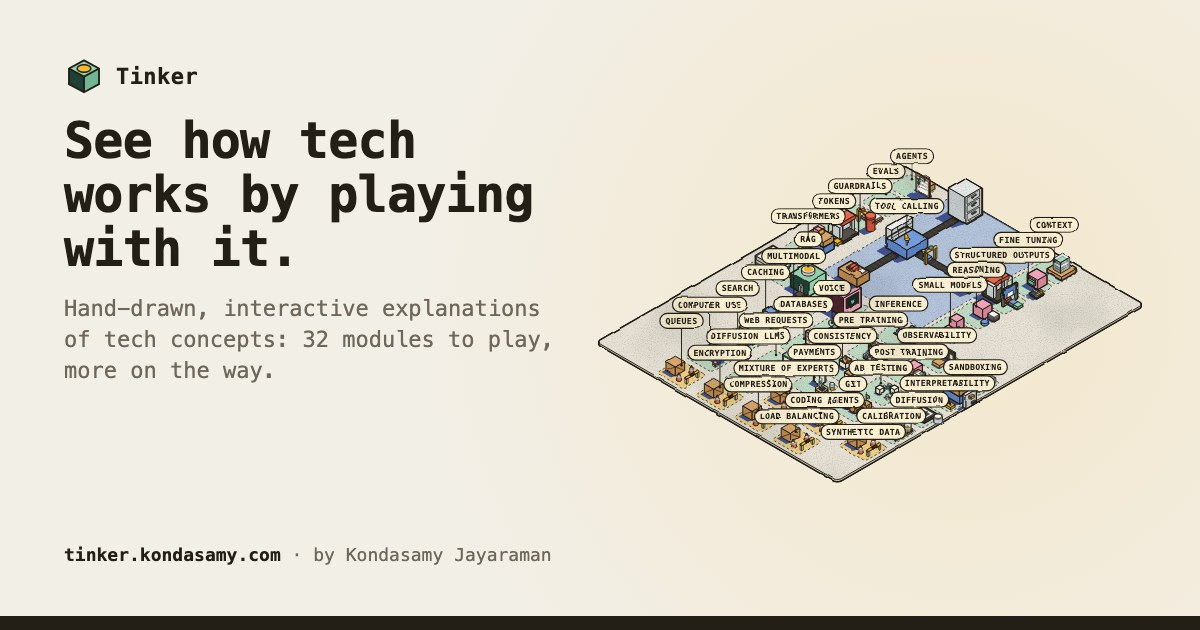
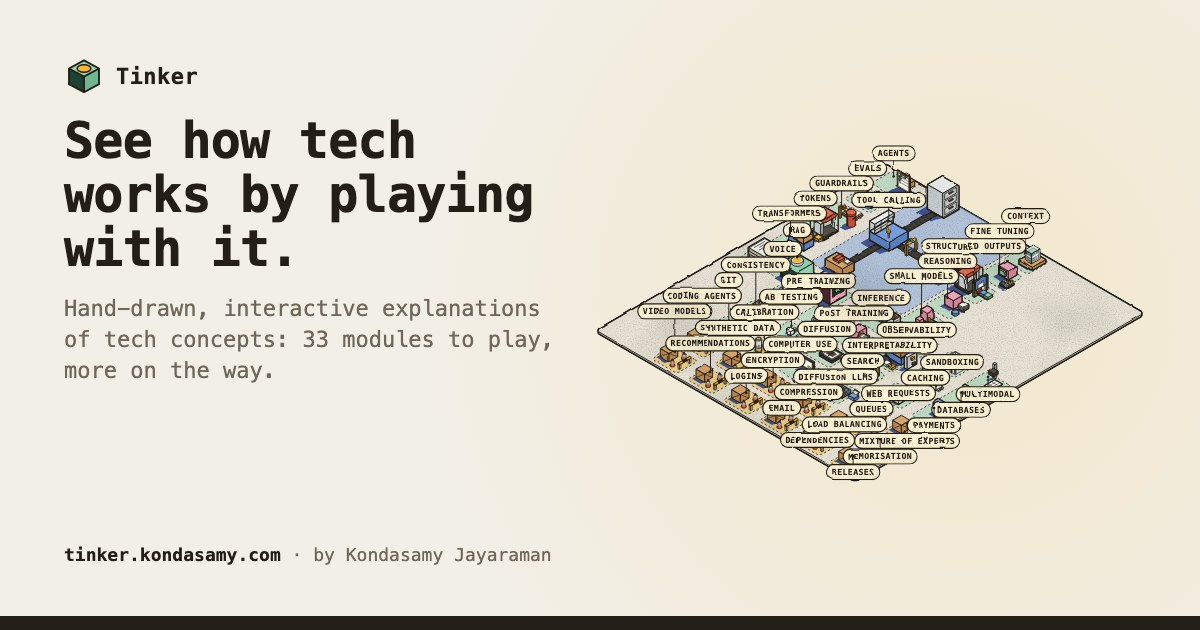
feat(queues): Queues and background jobs goes live as module 33
Registry entry in place of the planned card, home card (the ticket rail at
chapter 5's crash) and hero plot (railPlot), share-image cases and images,
home.jpg, the step-id pins for its chapters, the catalogue and module tests,
the go-live e2e checks, README. Inference chapter 3 and Payments chapter 4
now link to it (R17).

Changed region(s): [[0.4933, 0.2111, 0.9558, 0.7841]]

diff --git a/tests/e2e/queues.spec.ts b/tests/e2e/queues.spec.ts
@@ -3,12 +3,13 @@
 // jobs table, "I'm not sure", reduced motion, the recap, axe and phone width. The go-live adds the module's number,
 // share images and home's card.
 import { test, expect, type Page } from '@playwright/test';
-import { moduleOf } from '../../src/lib/modules';
+import { MODULES, moduleOf } from '../../src/lib/modules';
 import { CRASH_AT, WORKER_NAMES, clock } from '../../src/lib/queues/sim';
 import { queuesWalker } from './queues-flow';
 import { serious, layoutHolds, PHONE } from './helpers';
 
 const M = moduleOf('queues');
+const NUMBER = MODULES.filter(m => m.status === 'live').findIndex(m => m.id === 'queues') + 1;
 const IDS = M.chapters.map(c => c.id);
 const [CH1, CH2, CH3, CH4, CH5, CH6, CH7] = IDS;
 const at = (id: string) => new RegExp(`/queues/${id}/$`);
@@ -40,6 +41,28 @@ test('the intro shows the level, the author, the chapters and the Colorfigures c
   await page.getByRole('button', { name: 'Words' }).click();
   await expect(page.locator('.band .note.more')).toBeVisible();
   await axe(page);
+});
+
+test('its module number on the intro and the recap', async ({ page }) => {
+  await page.goto('/queues/');
+  await expect(page.locator('.hero .kicker')).toHaveText(`Module ${NUMBER} · Queues and background jobs`);
+  await page.goto('/queues/recap/');
+  await expect(page.locator('.hero .kicker')).toHaveText(`Module ${NUMBER} · Recap`);
+});
+
+test('go-live: own share images and home’s card', async ({ page }) => {
+  await page.goto('/queues/');
+  await expect(page.locator('meta[property="og:image"]')).toHaveAttribute('content', /\/og\/queues\.jpg$/);
+  await page.goto(`/queues/${CH1}/`);
+  await expect(page.locator('meta[property="og:image"]')).toHaveAttribute(
+    'content',
+    new RegExp(`/og/queues-${CH1}\\.jpg$`),
+  );
+  await page.goto('/queues/recap/');
+  await expect(page.locator('meta[property="og:image"]')).toHaveAttribute('content', /\/og\/queues-recap\.jpg$/);
+  expect((await page.request.get('/og/queues.jpg')).status()).toBe(200);
+  await page.goto('/');
+  await expect(page.locator('.module[data-module="queues"] h4 a')).toHaveAttribute('href', '/queues/');
 });
 
 test('every chapter plays by mouse, in order through the Next links, with axe clean at each check', async ({

diff --git a/src/lib/modules.ts b/src/lib/modules.ts
@@ -31,6 +31,7 @@ import { GIT_MODULE } from '../content/git/module';
 import { CALIBRATION_MODULE } from '../content/calibration/module';
 import { COMPUTER_USE_MODULE } from '../content/computer-use/module';
 import { DIFFUSION_LLMS_MODULE } from '../content/diffusion-llms/module';
+import { QUEUES_MODULE } from '../content/queues/module';
 import type { RecallItem } from './recall';
 
 export type Level = 'Beginner' | 'Intermediate' | 'Advanced';
@@ -121,6 +122,7 @@ export const MODULES: Module[] = [
   CALIBRATION_MODULE,
   COMPUTER_USE_MODULE,
   DIFFUSION_LLMS_MODULE,
+  QUEUES_MODULE,
   planned(
     'mixture-of-experts',
     'Mixture of experts',
@@ -138,13 +140,6 @@ export const MODULES: Module[] = [
     'Synthetic data',
     'Intermediate',
     'Training data written by a model: how it is made, filtered and checked, and when it teaches the wrong thing.',
-  ),
-  planned(
-    'queues',
-    'Queues and background jobs',
-    'Beginner',
-    'How an order waits its turn: a queue, workers that take jobs, retries, and the jobs that run twice.',
-    'Classic tech',
   ),
   planned(
     'encryption',

diff --git a/src/components/scenes/heroScene.ts b/src/components/scenes/heroScene.ts
@@ -53,6 +53,7 @@ import { cratePlot } from './crateScene';
 import { jarPlot } from './jarScene';
 import { puppetPlot } from './puppetScene';
 import { typeFramePlot } from './typeFrameScene';
+import { railPlot } from './railScene';
 import { SEQ_MSGS } from './toolSequence';
 import { MODULES } from '../../lib/modules';
 import type { Msg } from '../../lib/iso/flat';
@@ -280,6 +281,7 @@ const DRAW: Record<string, HeroPlot['draw']> = {
   calibration: (x, y, { top }) => jarPlot(x + 12, y - 2, top),
   'computer-use': (x, y, { top }) => puppetPlot(x + 14, y - 2, top),
   'diffusion-llms': (x, y, { top }) => typeFramePlot(x + 12, y - 2, top),
+  queues: (x, y, { top }) => railPlot(x + 14, y - 2, top),
 };
 const LIVE = MODULES.filter(m => m.status === 'live'),
   PLANNED = MODULES.filter(m => m.status === 'planned');

diff --git a/tests/unit/modules.test.ts b/tests/unit/modules.test.ts
@@ -610,6 +610,18 @@ describe('module registry', () => {
     expect(MODULES.filter(m => m.status === 'live').findIndex(m => m.id === 'diffusion-llms')).toBe(31);
   });
 
+  it('has queues as a live Beginner Classic tech module, numbered 33', () => {
+    expect(moduleOf('queues')).toMatchObject({
+      title: 'Queues and background jobs',
+      level: 'Beginner',
+      track: 'Classic tech',
+      status: 'live',
+      prereqs: [],
+    });
+    expect(moduleOf('queues').author).toEqual(moduleOf('rag').author);
+    expect(MODULES.filter(m => m.status === 'live').findIndex(m => m.id === 'queues')).toBe(32);
+  });
+
   it('keeps chapter ids unique within every module', () => {
     for (const m of MODULES) expect(new Set(m.chapters.map(c => c.id)).size, m.id).toBe(m.chapters.length);
   });

diff --git a/tests/e2e/catalogue.spec.ts b/tests/e2e/catalogue.spec.ts
@@ -39,6 +39,7 @@ const NUMBERED = [
   'calibration',
   'computer-use',
   'diffusion-llms',
+  'queues',
 ];
 
 // every module sits at its level: live cards first, then the roadmap's planned cards in registry (build) order;
@@ -293,6 +294,10 @@ test('live modules keep their numbers, each linked under its level', async ({ pa
   await expect(page.locator('[data-level="Advanced"] .module[data-module="diffusion-llms"] h4 a')).toHaveAttribute(
     'href',
     '/diffusion-llms/',
+  );
+  await expect(page.locator('[data-level="Beginner"] .module[data-module="queues"] h4 a')).toHaveAttribute(
+    'href',
+    '/queues/',
   );
 });
 

diff --git a/src/content/payments/04-pressed-pay-twice.tsx b/src/content/payments/04-pressed-pay-twice.tsx
@@ -162,7 +162,8 @@ export default function PressedPayTwice() {
             <SimNote />
             <p className="note pm-note">
               Doing a change exactly once across copies comes back in{' '}
-              <a href="/consistency/">Replication &amp; consistency</a>.
+              <a href="/consistency/">Replication &amp; consistency</a>, and a background job that runs twice in{' '}
+              <a href="/queues/05-ran-twice/">Queues</a>.
             </p>
           </>
         ),

diff --git a/src/content/inference/03-batching.tsx b/src/content/inference/03-batching.tsx
@@ -183,6 +183,9 @@ export default function Batching() {
         out1: ({ state }) => (
           <>
             <Outcome {...P1} prediction={state.p1} outcome={outcomeOf()} />
+            <p className="note in-note">
+              Jobs that wait for a worker, not a batch: <a href="/queues/">Queues and background jobs</a>.
+            </p>
             <Fact id="batching-amortizes" />
             <Fact id="orca" />
           </>

diff --git a/README.md b/README.md
@@ -4,7 +4,7 @@
 
 Each module is a short story you play through: the picture on the left is live, the story on the right asks you to do one thing at a time in it, and you watch what changes. Build the thing, break it, fix it.
 
-![Tinker home: one workshop, a plot per module; a wave names each module in turn. Thirty-two modules are live, from RAG and tool calling to search, card payments, Git and diffusion language models](docs/images/home.png)
+![Tinker home: one workshop, a plot per module; a wave names each module in turn. Thirty-three modules are live, from RAG and tool calling to search, card payments, Git, diffusion language models and queues](docs/images/home.png)
 
 ---
 
@@ -23,6 +23,7 @@ Every module has a level, a story, an intro at `/<module>/`, its chapters, and a
 | Beginner | [Opening a web page](https://tinker.kondasamy.com/web-requests/) | Live, 7 chapters |
 | Beginner | [Card payments](https://tinker.kondasamy.com/payments/) | Live, 7 chapters |
 | Beginner | [Git](https://tinker.kondasamy.com/git/) | Live, 7 chapters |
+| Beginner | [Queues and background jobs](https://tinker.kondasamy.com/queues/) | Live, 7 chapters |
 | Intermediate | [Tool calling & MCP](https://tinker.kondasamy.com/tool-calling/) (RAG recommended first) | Live, 7 chapters |
 | Intermediate | [Evals & LLM testing](https://tinker.kondasamy.com/evals/) (RAG recommended first) | Live, 7 chapters |
 | Intermediate | [Prompt injection & guardrails](https://tinker.kondasamy.com/guardrails/) (Tool calling recommended first) | Live, 7 chapters |
@@ -46,7 +47,6 @@ Every module has a level, a story, an intro at `/<module>/`, its chapters, and a
 | Advanced | [Replication & consistency](https://tinker.kondasamy.com/consistency/) (Databases recommended first) | Live, 7 chapters |
 | Advanced | [Computer use](https://tinker.kondasamy.com/computer-use/) (AI agents and Multimodal recommended first) | Live, 7 chapters |
 | Advanced | [Diffusion language models](https://tinker.kondasamy.com/diffusion-llms/) (Diffusion models and Transformers recommended first) | Live, 7 chapters |
-| Beginner | Queues and background jobs | Planned |
 | Beginner | Locks and keys | Planned |
 | Beginner | Compression | Planned |
 | Intermediate | Coding agents | Planned |
